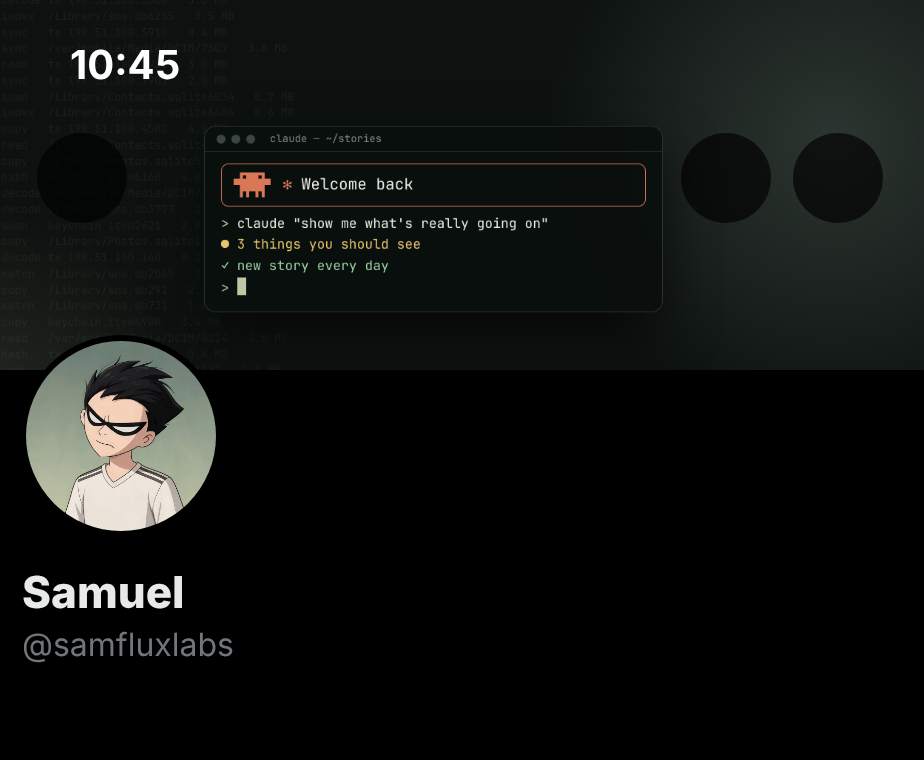
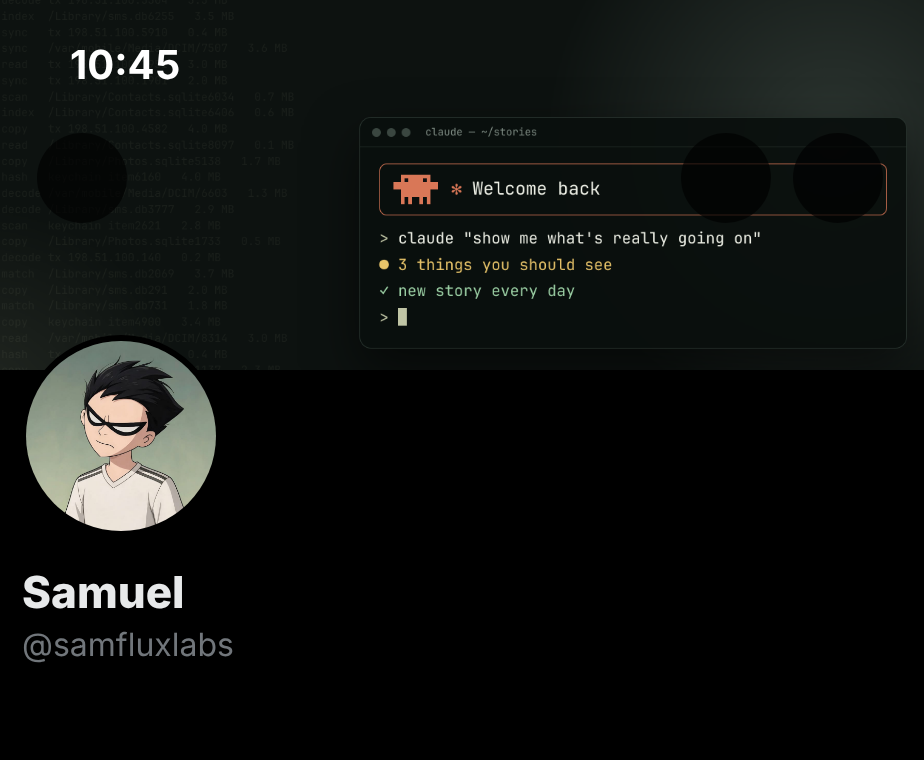
Header: original layout shifted lower-left to fit mobile crop
Claude-Session: https://claude.ai/code/session_01NM4Jr7FW5n6NYfuvNkjQER

diff --git a/branding/build-headers.js b/branding/build-headers.js
@@ -115,17 +115,15 @@ V.term_welcome = `<style>${TERM_CSS}
 
 // A3m. Welcome variant re-laid for the mobile safe zone (centered, clear of X app buttons and avatar)
 V.term_welcome_m = `<style>${TERM_CSS}
-.term{left:400px;top:170px;width:620px}
-.body{padding:16px 22px;font-size:18px;line-height:1.6}
-.bar{height:34px}
-.wb{border:1.5px solid #d97757;border-radius:10px;padding:11px 16px;display:flex;gap:16px;align-items:center;margin-bottom:10px}
-.wb .t{font-size:21px;line-height:1;color:var(--paper)} .wb .t span{color:#d97757} .wb .s{font-size:15px;color:var(--mut);margin-top:4px}
+.term{right:150px;top:158px;width:740px}
+.wb{border:1.5px solid #d97757;border-radius:10px;padding:14px 18px;display:flex;gap:18px;align-items:center;margin-bottom:14px}
+.wb .t{font-size:24px;line-height:1;color:var(--paper)} .wb .t span{color:#d97757} .wb .s{font-size:15px;color:var(--mut);margin-top:4px}
 </style>
 <div class="glow"></div><div class="glow2"></div>
 <div style="position:absolute;inset:0;opacity:.07">${logTexture(30, 13, '#c0c5a5')}</div>
 <div class="term mono"><div class="bar"><i></i><i></i><i></i><span>claude — ~/stories</span></div>
 <div class="body">
-  <div class="wb">${mascot(4.2)}<div class="t"><span>✻</span> Welcome back</div></div>
+  <div class="wb">${mascot(5)}<div class="t"><span>✻</span> Welcome back</div></div>
   <div><span class="p">&gt;</span> <span class="c">claude "show me what's really going on"</span></div>
   <div class="w">● 3 things you should see</div>
   <div class="ok">✓ new story every day</div>
